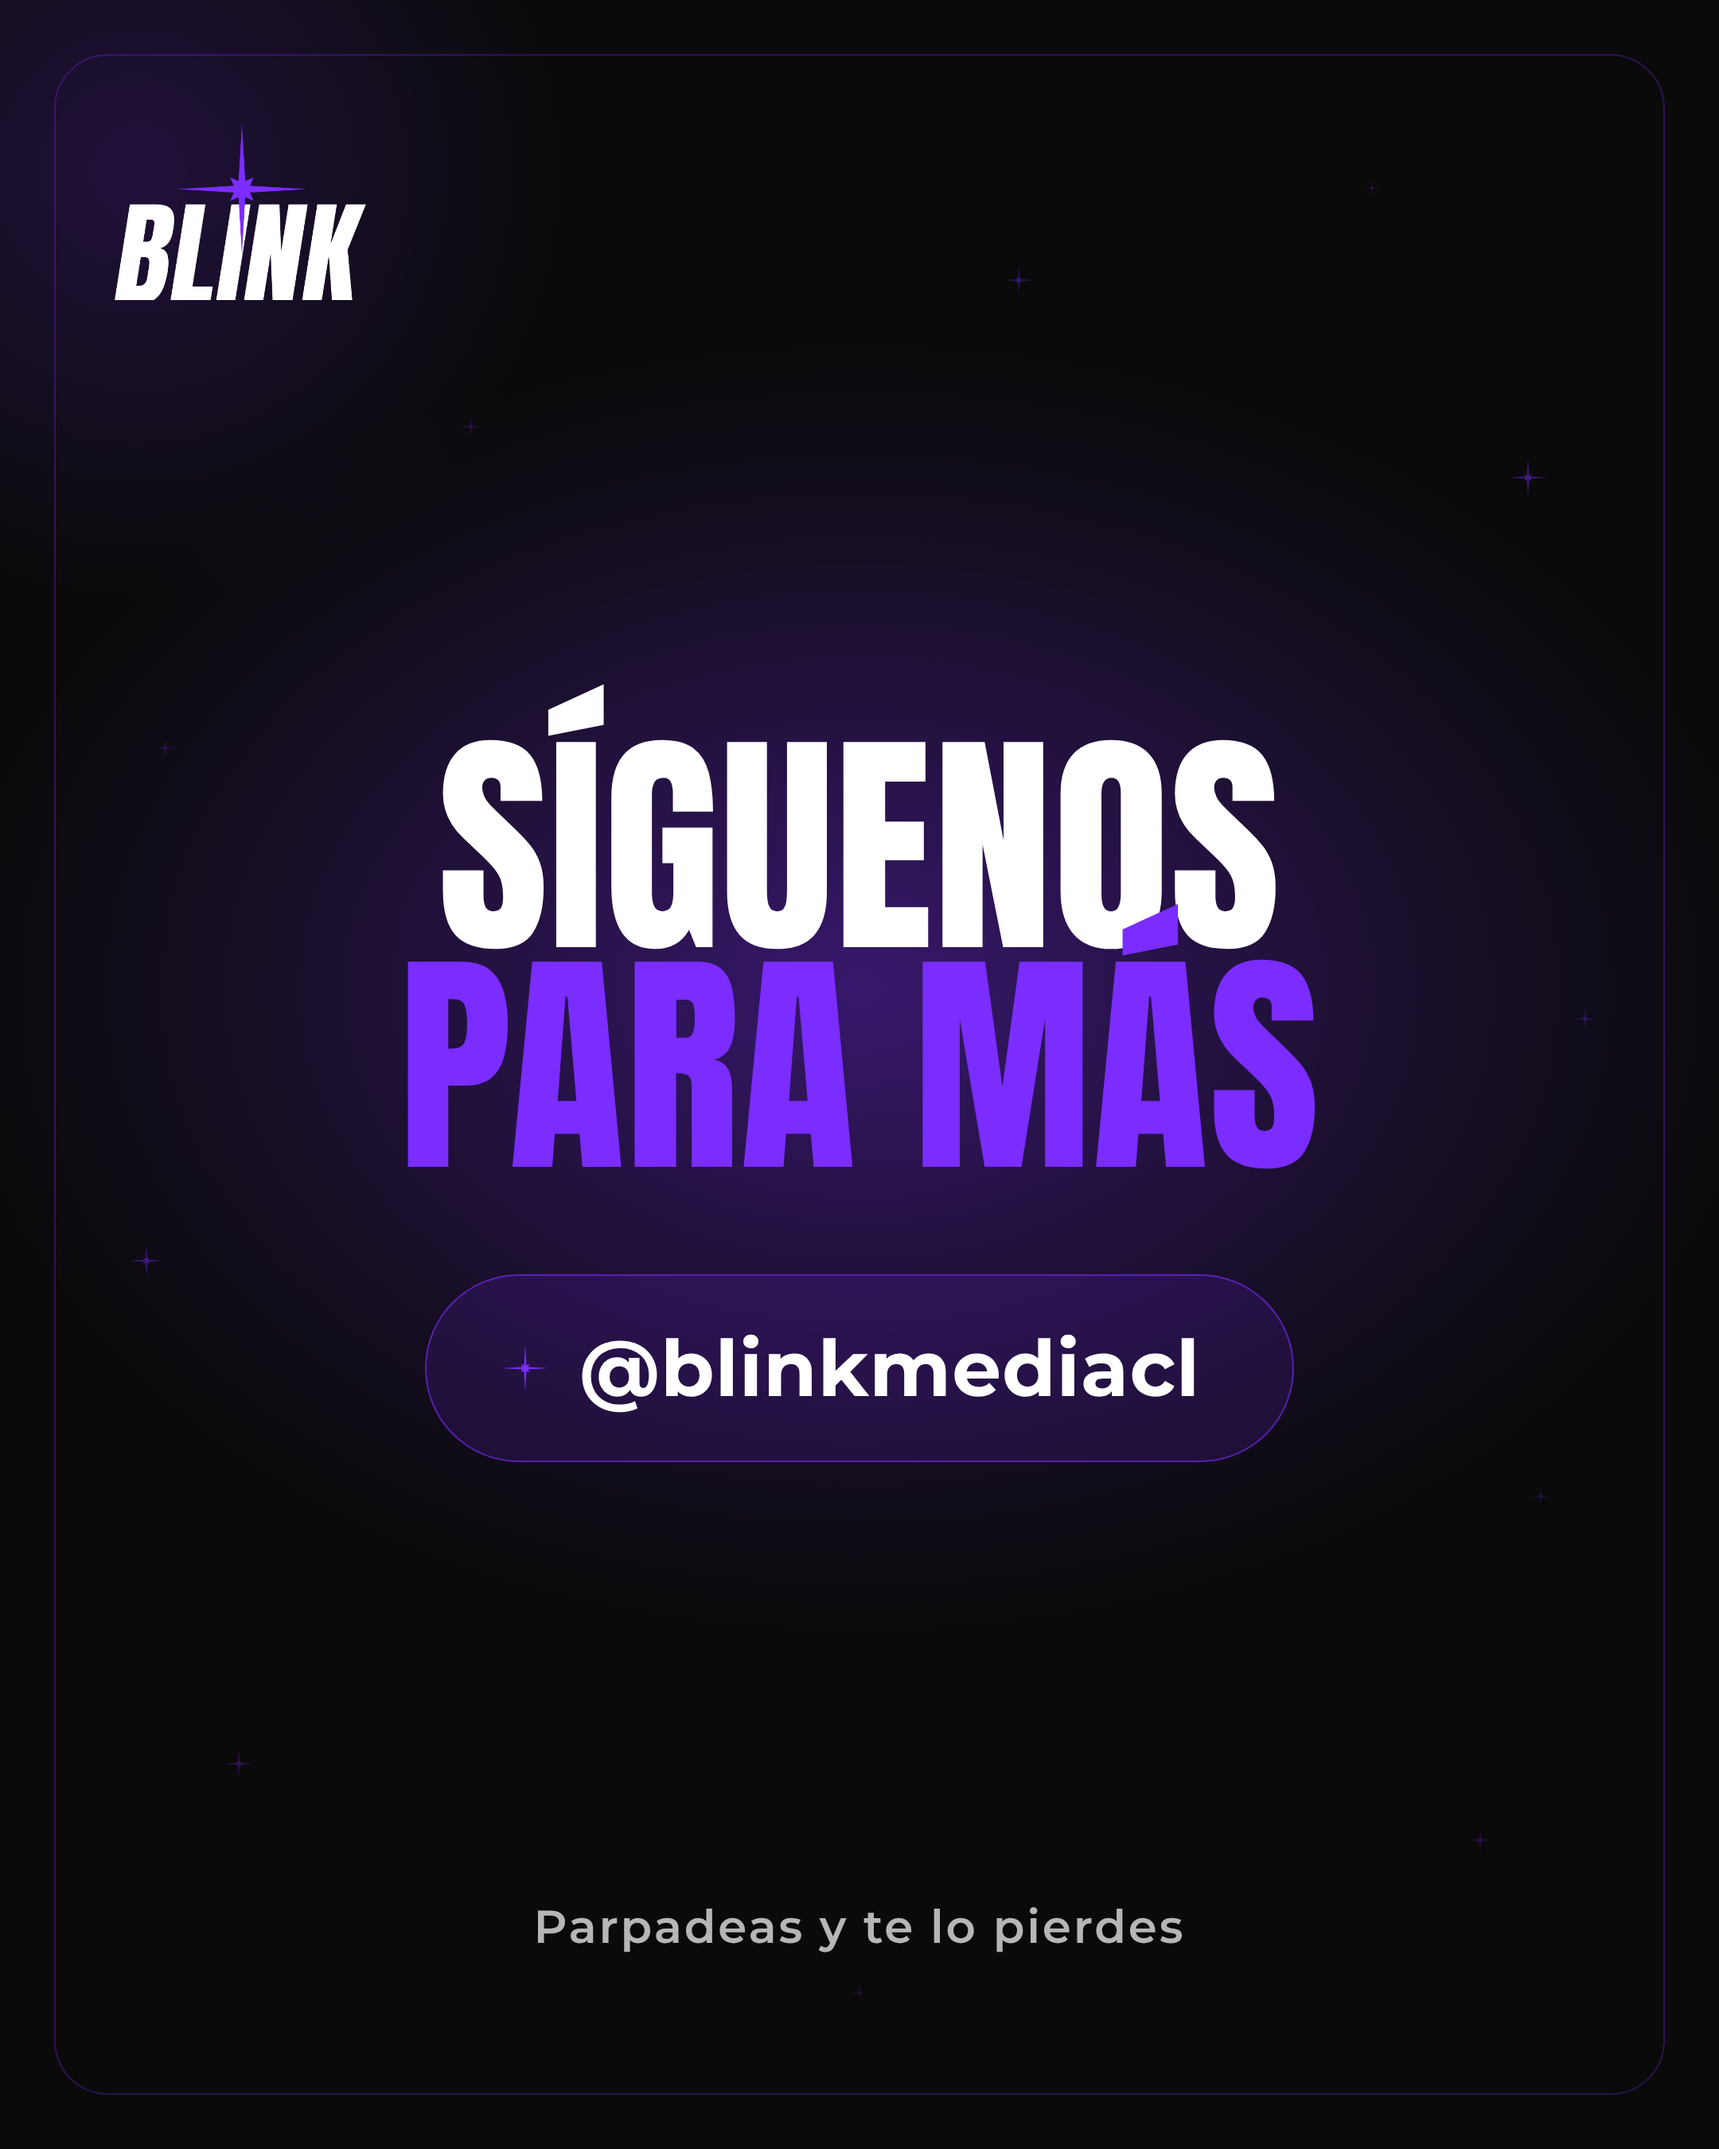
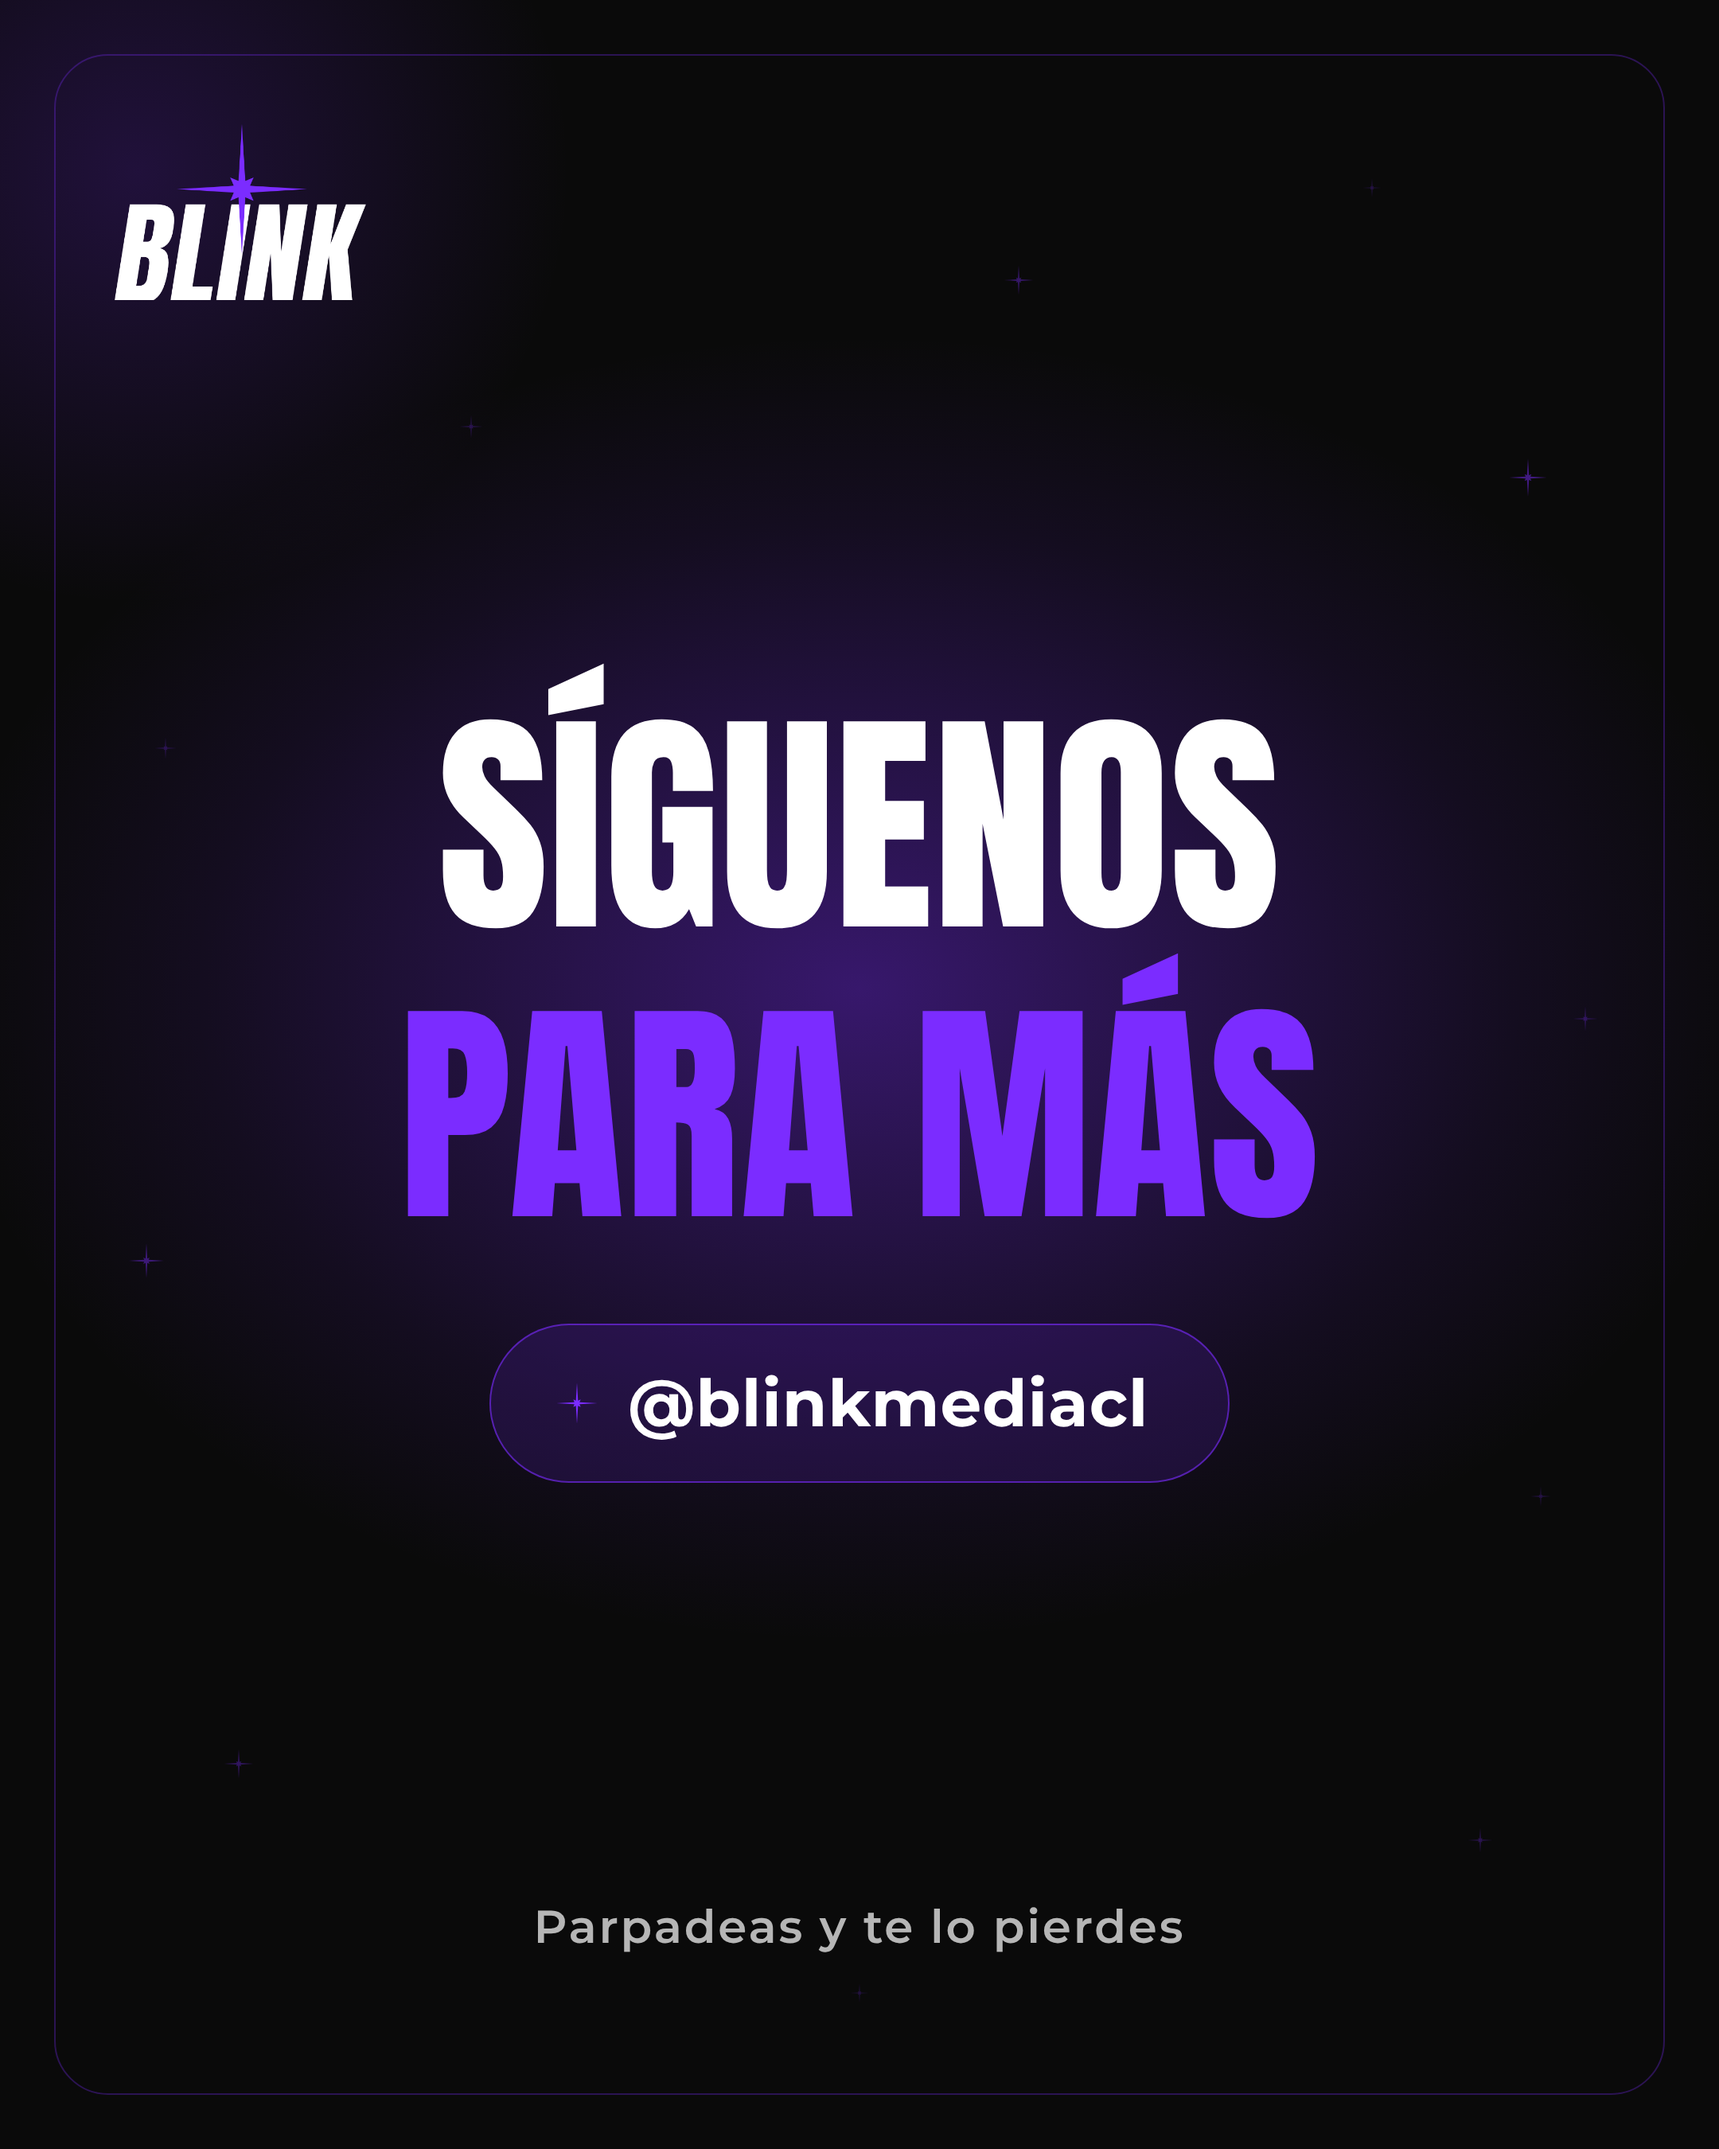
Separar las dos líneas del titular y achicar la cuenta
El tilde de "MÁS" se metía 53px dentro de la línea de arriba. Ahora hay 35px
de aire, puestos con margen entre líneas y no con line-height, para no aflojar
el titular por dentro.

Queda anotado en la línea gráfica: en Anton las mayúsculas acentuadas se salen
por arriba de la caja de línea y esto se va a repetir.

Claude-Session: https://claude.ai/code/session_01NF4PN4Z1tGA2GQg6PseM5W

Changed region(s): [[0.2171, 0.3111, 0.7755, 0.7156]]

diff --git a/cierre-carrusel.html b/cierre-carrusel.html
@@ -42,17 +42,17 @@
     font-size:150px; line-height:0.92; letter-spacing:0.5px;
     text-transform:uppercase; color:#fff; text-align:center;
   }
-  .llamado em{font-style:normal; color:#7B2CFF; display:block;}
+  .llamado em{font-style:normal; color:#7B2CFF; display:block; margin-top:44px;}
 
   .cuenta{
     display:flex; align-items:center; gap:18px;
-    padding:28px 58px 28px 46px;
+    padding:24px 50px 24px 40px;
     border:1px solid rgba(123,44,255,0.60);
     border-radius:999px;
     background:rgba(123,44,255,0.14);
   }
-  .cuenta svg{width:32px; height:32px; fill:#7B2CFF; flex:none;}
-  .cuenta span{font-size:49px; font-weight:700; color:#fff; letter-spacing:0.4px;}
+  .cuenta svg{width:28px; height:28px; fill:#7B2CFF; flex:none;}
+  .cuenta span{font-size:41px; font-weight:700; color:#fff; letter-spacing:0.4px;}
 
   .lema{
     position:relative; text-align:center;

diff --git a/CLAUDE.md b/CLAUDE.md
@@ -248,6 +248,12 @@ ancho al pintarlo.
 - Dato técnico: `#7B2CFF` sobre negro llega como máximo a 3.65:1 de contraste, así
   que el morado solo va en texto de tamaño titular, nunca en cuerpo.
 
+**Ojo con los tildes en Anton.** Las mayúsculas acentuadas —Á, Í— se salen por
+arriba de la caja de línea, así que con dos líneas apretadas el tilde de abajo
+choca con la letra de arriba. Ya pasó con "SÍGUENOS / PARA MÁS". Se arregla con
+margen entre las dos líneas, **no** subiendo el `line-height`: eso también
+separa lo de adentro de cada línea y afloja el titular.
+
 **Formatos**: portada (1080×1350), lámina de carrusel (1080×1350), historia (1080×1920).
 
 **El fondo desenfocado no puede pixelarse.** Se hace con desenfoque gaussiano real
